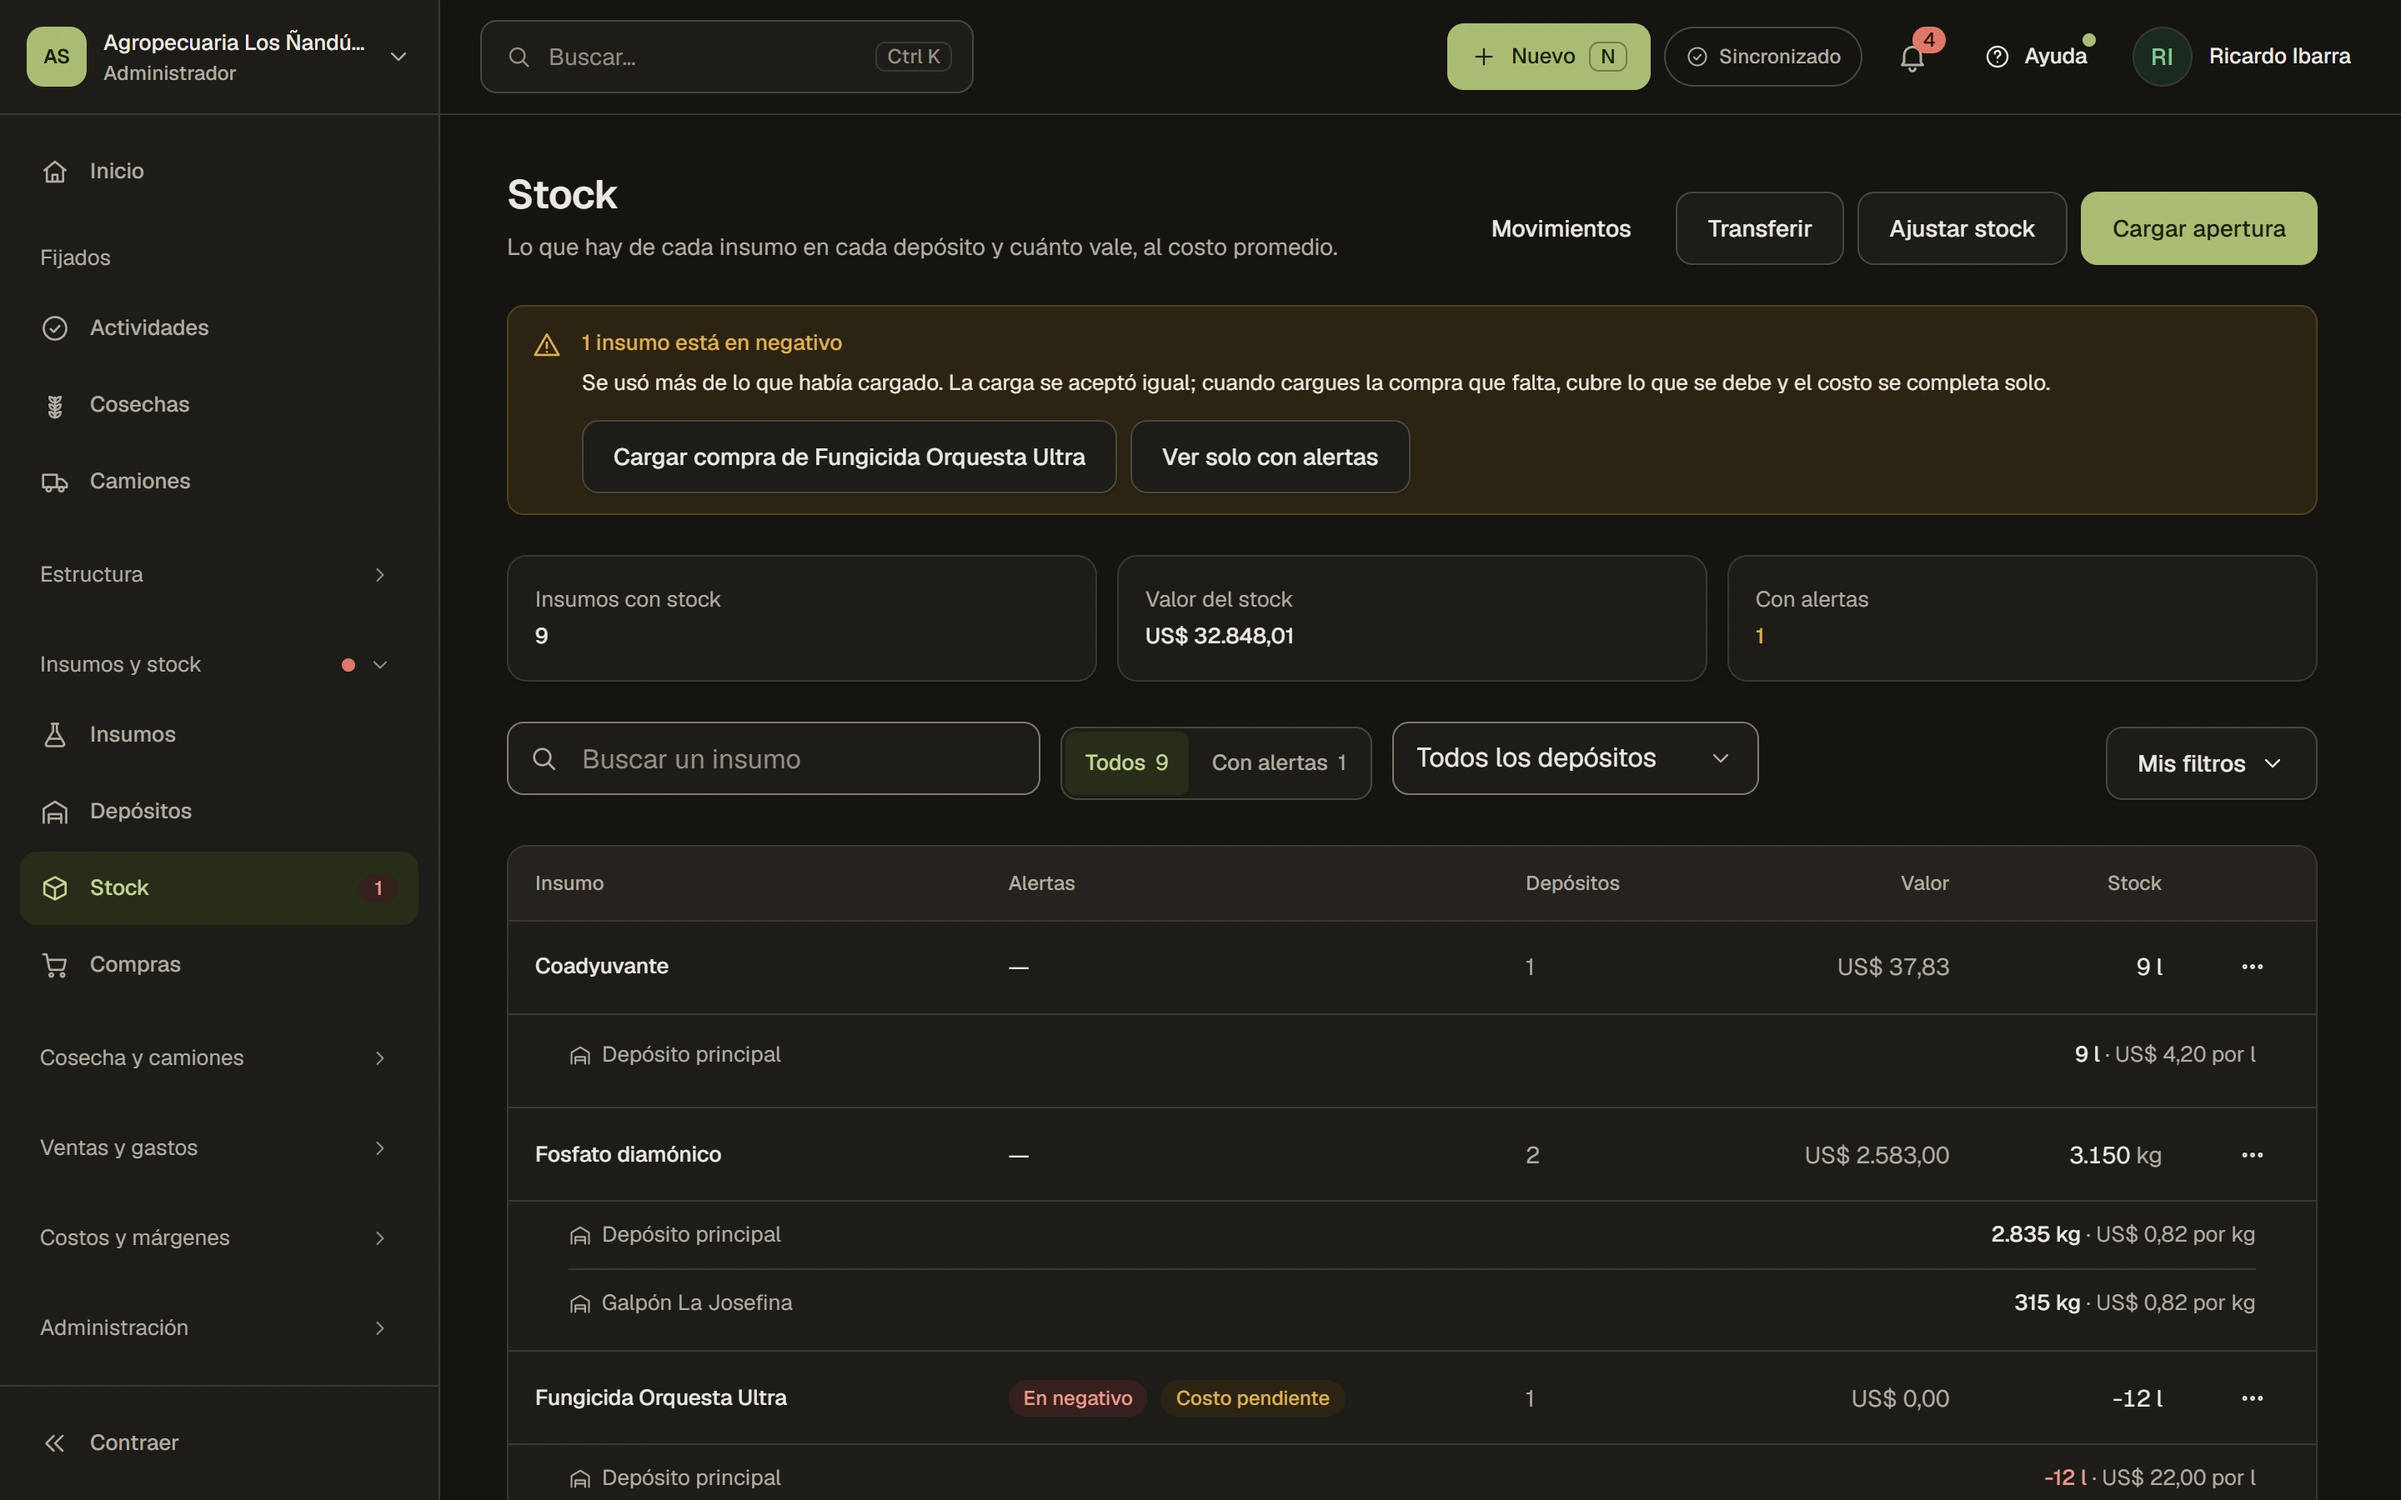
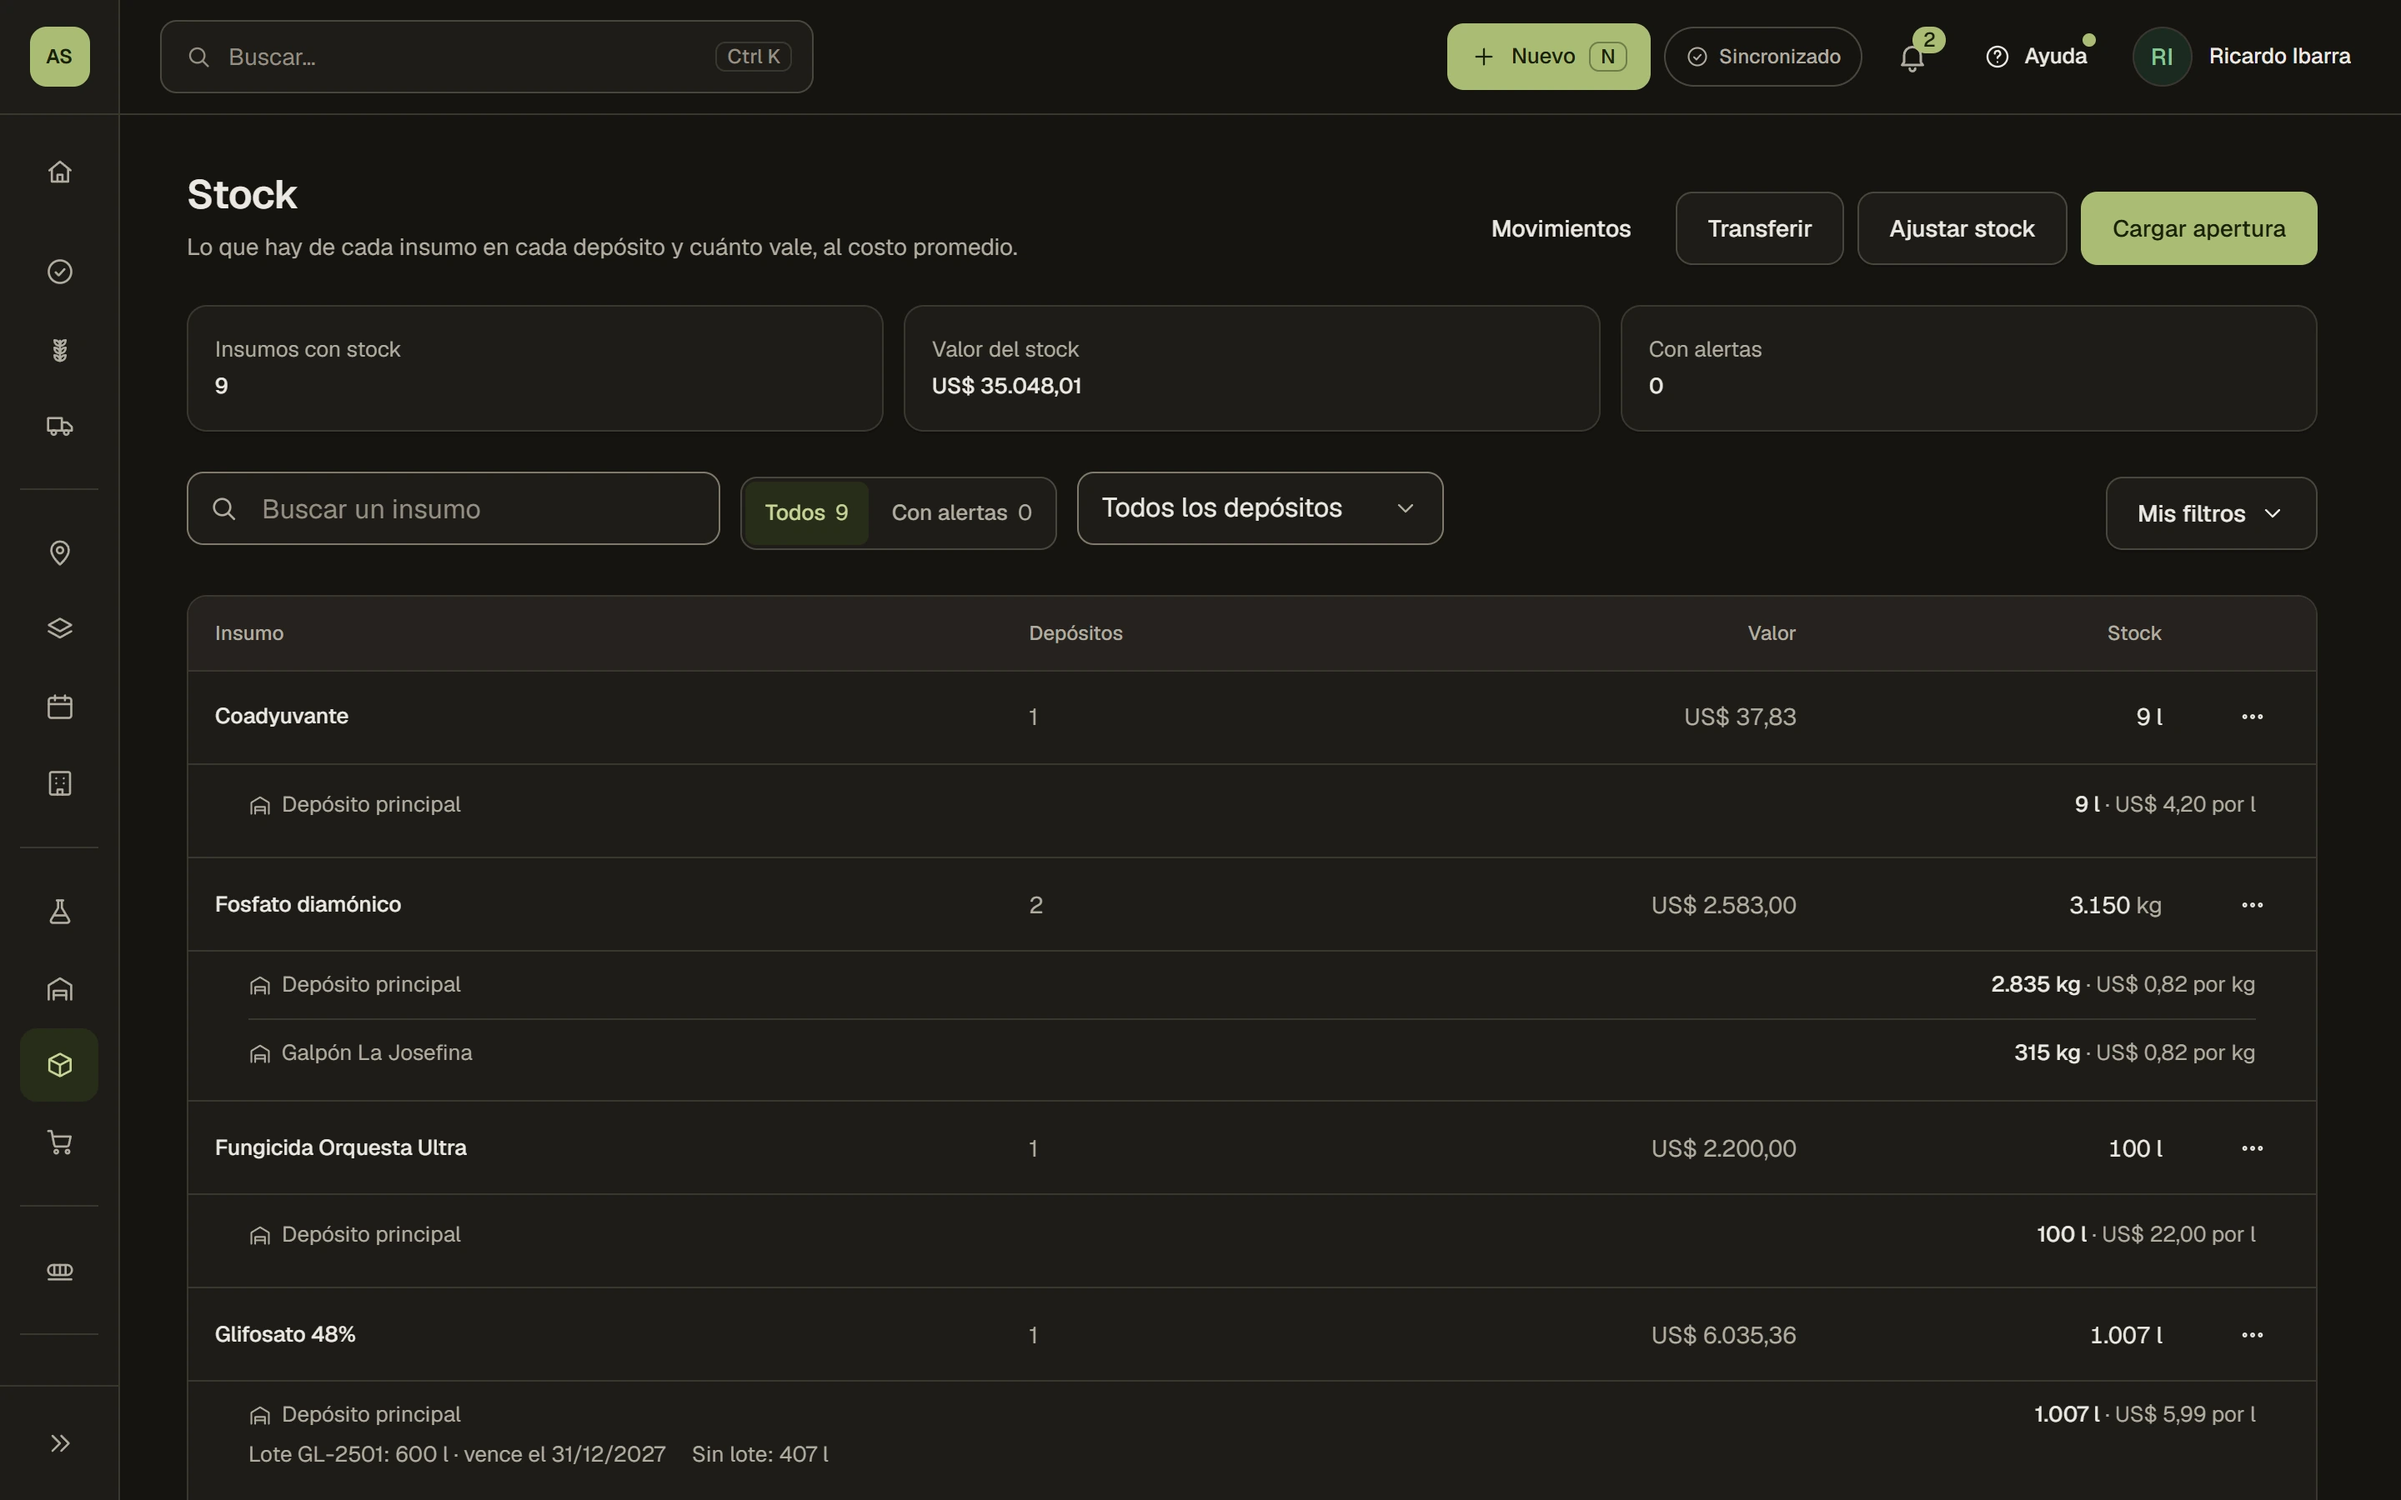
Marco del celular más fino en pantallas chicas; captura de stock sin alerta y con menú contraído, sin recorte en celular

diff --git a/index.html b/index.html
@@ -88,7 +88,7 @@
           </div>
           <img src="assets/app-margen.webp" alt="Pantalla Margen de la aplicación: ingreso, costos y margen neto de cada lote en la campaña 2024/25, con el total por cultivo (datos de demostración)." width="2880" height="1800" decoding="async" style="display: block; width: 100%; height: auto;">
         </div>
-        <div data-hero="4" style="position: absolute; left: 0; bottom: 0; width: 34%; border: 6px solid var(--bezel); border-radius: 26px; background: var(--card); box-shadow: var(--sh3); overflow: hidden;">
+        <div data-hero="4" style="position: absolute; left: 0; bottom: 0; width: 34%; border: var(--bezel-w) solid var(--bezel); border-radius: var(--bezel-r); background: var(--card); box-shadow: var(--sh3); overflow: hidden;">
           <img src="assets/app-celular.webp" alt="Pantalla de carga de una actividad en el celular: lote, día y hectáreas trabajadas (datos de demostración)." width="1170" height="2469" decoding="async" style="display: block; width: 100%; height: auto;">
         </div>
       </div>
@@ -177,7 +177,7 @@
           <span style="width: 9px; height: 9px; border-radius: 50%; background: var(--border2);"></span>
           <span style="width: 9px; height: 9px; border-radius: 50%; background: var(--border2);"></span>
         </div>
-        <div style="flex: 1; min-height: 246px;"><img src="assets/app-stock.webp" alt="Pantalla Stock de la aplicación: cada insumo con su valor al costo promedio y la alerta de un insumo en negativo (datos de demostración)." width="2880" height="1800" loading="lazy" decoding="async" style="display: block; width: 100%; height: 100%; object-fit: cover; object-position: top;"></div>
+        <div class="shot-stock" style="flex: 1;"><img src="assets/app-stock.webp" alt="Pantalla Stock de la aplicación: cada insumo y depósito con su valor al costo promedio (datos de demostración)." width="2880" height="1800" loading="lazy" decoding="async" style="display: block; width: 100%; height: 100%; object-fit: cover; object-position: top;"></div>
       </div>
     </div>
   </div>

diff --git a/css/styles.css b/css/styles.css
@@ -31,3 +31,11 @@ button,input,select,textarea{font:inherit;color:inherit}
 .h11:hover{background: var(--muted) !important}
 .h12:hover{color: var(--fg) !important;text-decoration: underline !important}
 .h13:hover{color: var(--fg) !important}
+
+/* Marco del celular del hero: más fino cuando la pantalla es chica */
+:root{--bezel-w:6px;--bezel-r:26px}
+@media (max-width:919px){:root{--bezel-w:4px;--bezel-r:22px}}
+@media (max-width:520px){:root{--bezel-w:2.5px;--bezel-r:16px}}
+
+/* Captura de stock: sin recorte en celular; en escritorio llena la altura de la columna */
+@media (min-width:920px){.shot-stock{min-height:246px}}
